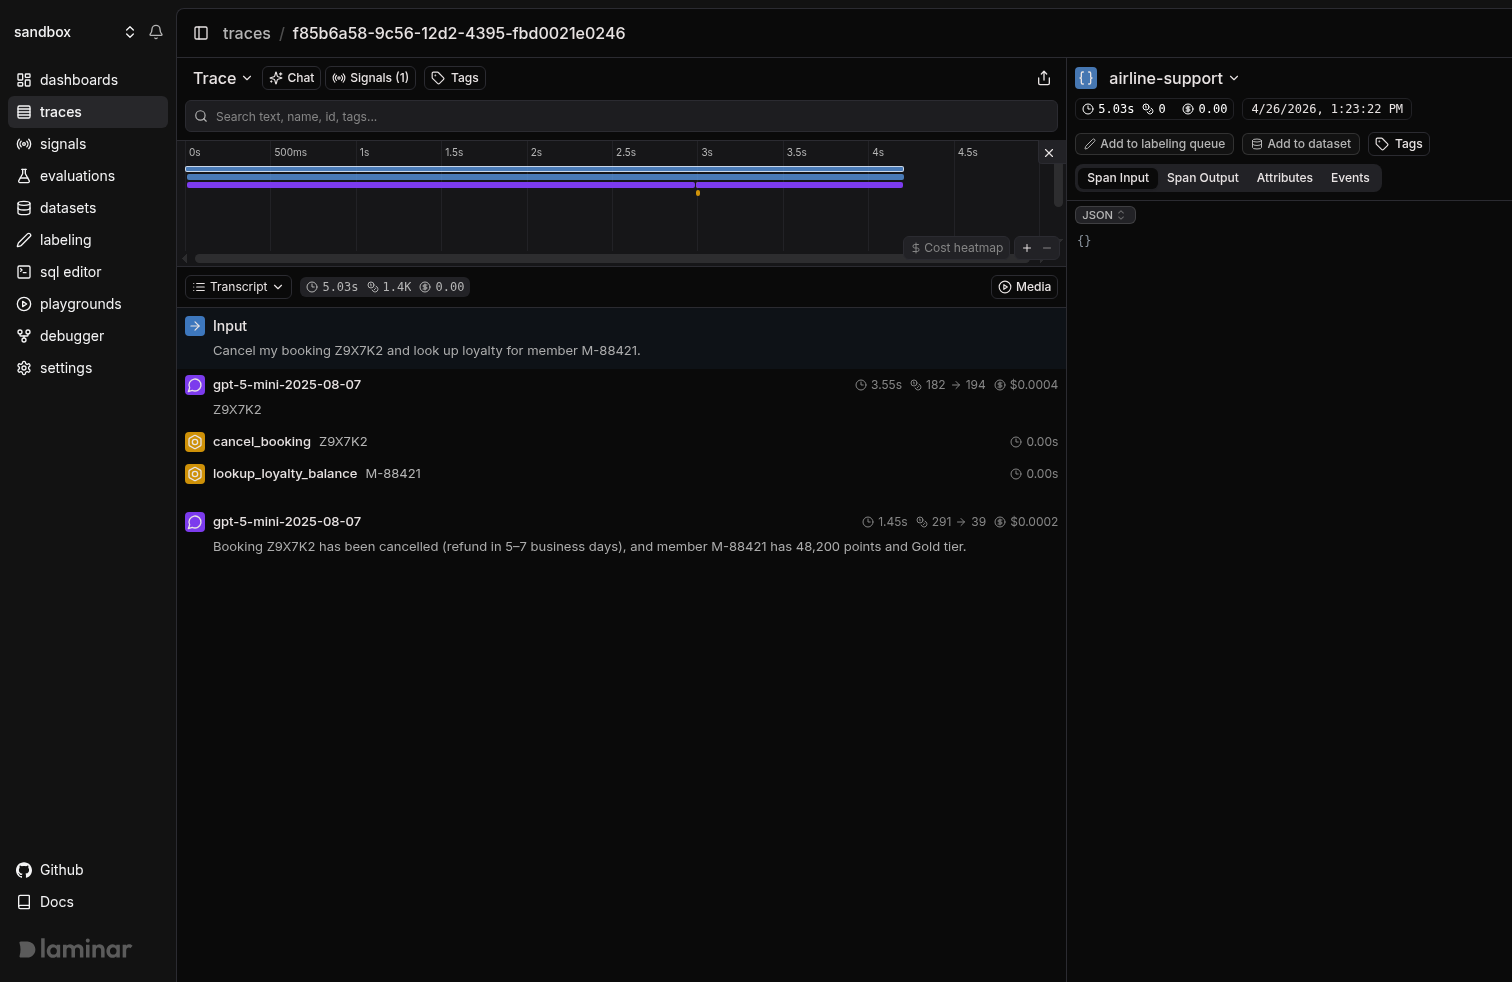
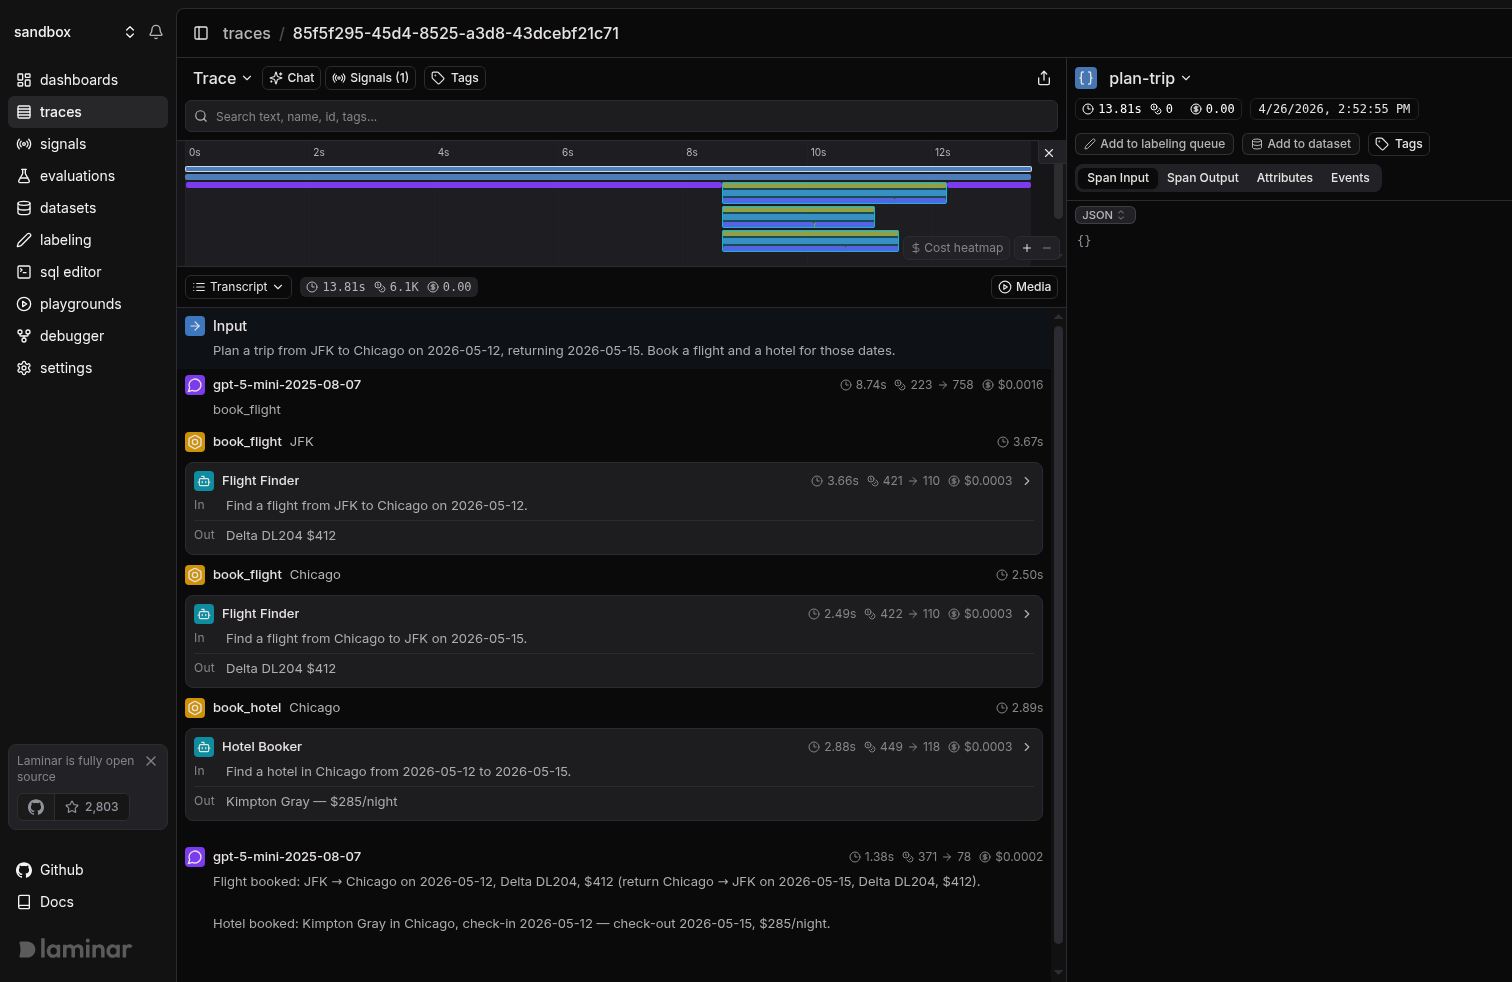
LAM-1502: Address PR review — rephrase opener, use multi-agent screenshots
- Reword opening so Laminar reads as a platform for AI agents generally,
  with Pydantic AI named in the second clause.
- Swap single-agent travel-concierge demo for a multi-agent run that
  delegates to flight_agent and hotel_agent sub-agents via @agent.tool.
- See-what-happened section now shows the tree view (nested sub-agents);
  Multi-agent-with-tools section adds the transcript view of the same run.
- Record the multi-agent-delegation pattern and opener convention in
  CLAUDE.md so future integration pages don't repeat the same review cycle.

diff --git a/CLAUDE.md b/CLAUDE.md
@@ -100,6 +100,8 @@ This is a Mintlify site. Pages are `.mdx`, navigation lives in `docs.json`, reus
 - When Pydantic AI is auto-enabled, Laminar auto-REMOVES the overlapping raw provider instrumentors (OpenAI, Anthropic, Google GenAI, Groq, Mistral, Cohere, Bedrock) from the default set because Pydantic AI already emits GenAI-semconv spans at the model abstraction layer. Running both would double-count every model call. Opt back into both with an explicit `instruments={Instruments.PYDANTIC_AI, Instruments.OPENAI, ...}` set.
 - Span names follow OTel GenAI semconv: `agent run`, `chat <model>` (per turn), `execute_tool <name>` (per tool call). Nesting mirrors the conversation — tool spans sit under the chat turn that invoked them.
 - Tools registered with `@agent.tool_plain` (no `RunContext`) work out of the box; `@agent.tool` is the variant with injected dependencies. Both emit `execute_tool <name>` spans identically.
+- **Multi-agent delegation pattern**: Have a coordinator `Agent` expose `@agent.tool` methods that internally call `await sub_agent.run(...)`. Laminar nests the sub-agent's full run (its own turns and tool calls) directly underneath the parent `execute_tool <name>` span. This is the shape Rainhunter13 asked for in PR #139 — it produces rich tree-view screenshots (concierge → gpt-5-mini → book_flight → flight_agent → gpt-5-mini → search_flights). Single-agent-with-flat-tools demos look thin by comparison.
+- Opening paragraphs on integration pages should lead with "Laminar is an open-source, OpenTelemetry-native observability platform for AI agents" (generic), then name the framework in the *second* clause ("...Trace, debug, and monitor every [Framework] ..."). Phrasing the opener as "observability platform for [Framework]" reads like the platform only serves that one framework — Rainhunter13 flagged this on PR #139.
 
 ## Formatting
 
